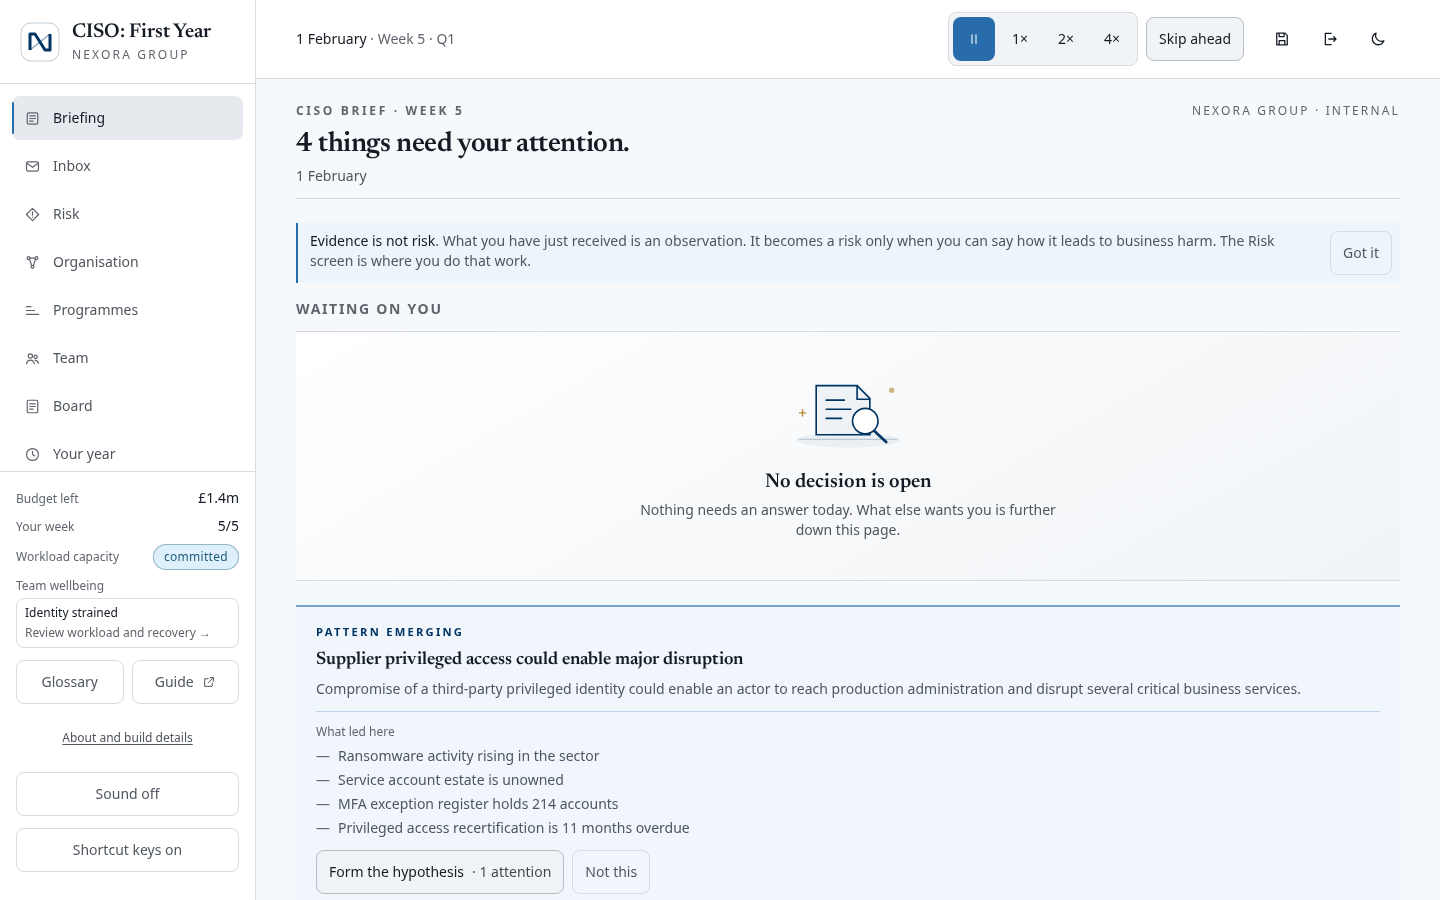
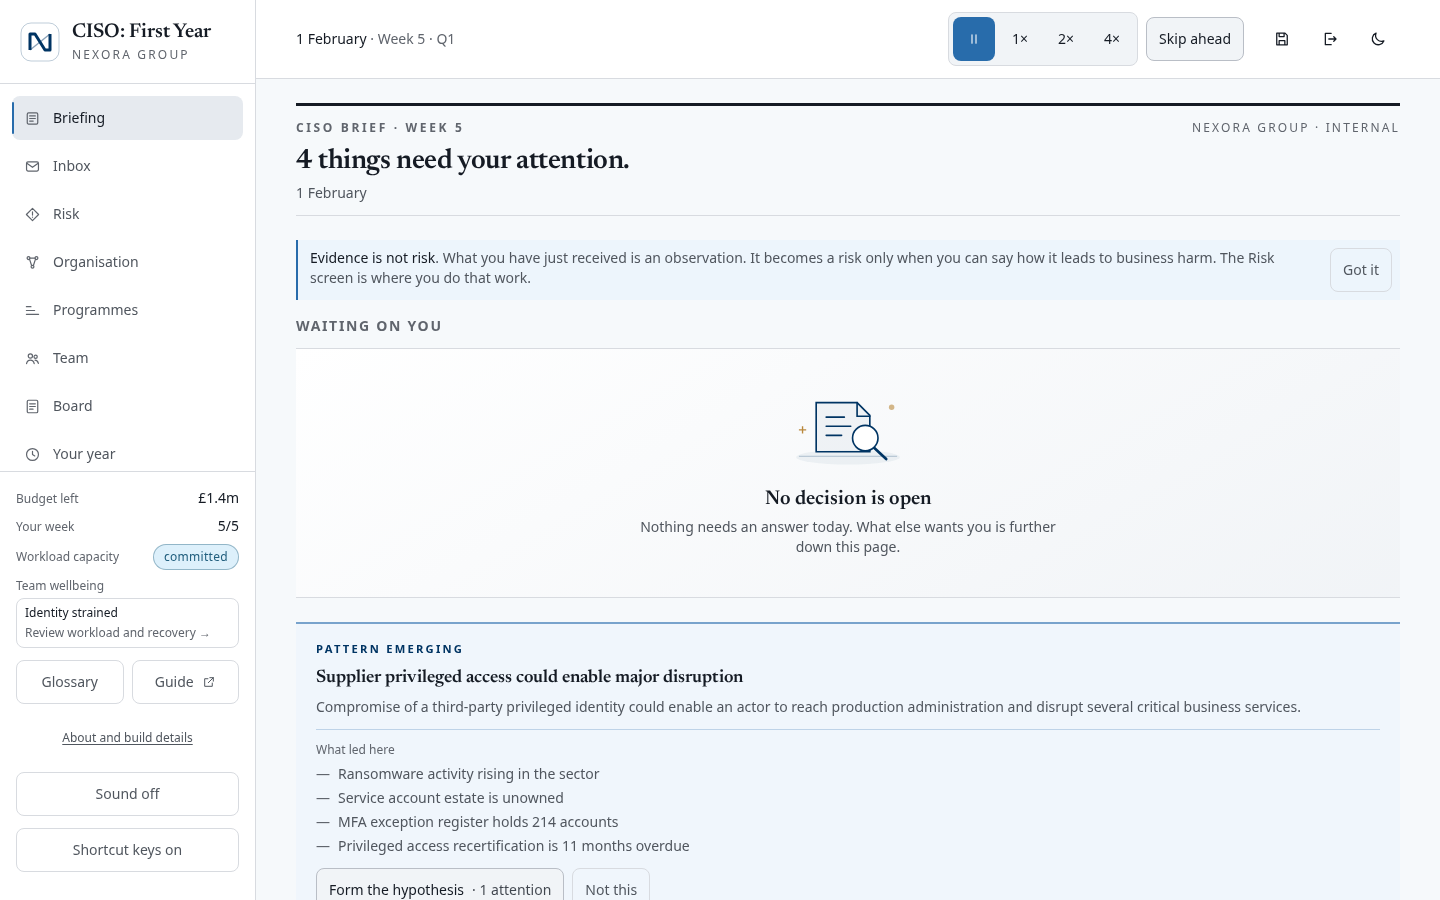
Give the year distinct working surfaces and office atmosphere

diff --git a/tests/ui/visual-story.test.tsx b/tests/ui/visual-story.test.tsx
@@ -1,0 +1,63 @@
+// @vitest-environment jsdom
+import { beforeEach, describe, expect, it } from 'vitest'
+import { fireEvent, render, screen } from '@testing-library/react'
+import { ProgrammeJourney } from '@/components/programmes/ProgrammeJourney'
+import { programmeViews } from '@/store/selectors'
+import { useGameStore } from '@/store/game-store'
+import { InboxScreen } from '@/screens/inbox/InboxScreen'
+import { QuarterOffice } from '@/components/game/QuarterOffice'
+
+beforeEach(async () => { await useGameStore.getState().startNewGame('ui-visual-story', 'ciso') })
+
+describe('visual narrative follows public records', () => {
+  it('separates completed milestones, the next milestone and delivery status', () => {
+    const store = useGameStore.getState()
+    const programme = programmeViews(store.state!, store.index!)[0]!
+    programme.status = 'paused'
+    programme.milestones[0]!.complete = true
+    const view = render(<ProgrammeJourney programme={programme} />)
+    expect(screen.getByText('Delivery paused')).toBeVisible()
+    expect(screen.getAllByText('Completed')).toHaveLength(1)
+    const next = view.container.querySelector('[aria-current="step"]')!
+    expect(next).toHaveTextContent(programme.milestones[1]!.name)
+    expect(next).toHaveTextContent('Next milestone')
+    expect(view.container.textContent).not.toMatch(/due|days left/i)
+    programme.status = 'complete'
+    programme.milestones.forEach((milestone) => { milestone.complete = true })
+    view.rerender(<ProgrammeJourney programme={programme} />)
+    expect(screen.getByText('Delivery complete')).toBeVisible()
+    expect(view.container.querySelector('[aria-current]')).toBeNull()
+    programme.milestones[0]!.complete = false
+    view.rerender(<ProgrammeJourney programme={programme} />)
+    expect(screen.getByText('Not recorded')).toBeVisible()
+    expect(screen.queryByText('Next milestone')).toBeNull()
+  })
+
+  it('keeps known sender names and full roles alongside important portraits', () => {
+    render(<InboxScreen />)
+    const signature = document.querySelector('.sender-signature')!
+    expect(signature).toHaveTextContent('Marianne Okafor')
+    expect(signature).toHaveTextContent('Chief Executive')
+    expect(signature.querySelector('img')).toHaveAttribute('alt', '')
+  })
+
+  it('preserves an unknown sender without inventing a person or role', () => {
+    useGameStore.setState((store) => {
+      const state = structuredClone(store.state!)
+      state.inbox.messages[0]!.from = 'External advisory team'
+      return { state }
+    })
+    render(<InboxScreen />)
+    const signature = document.querySelector('.sender-signature')!
+    expect(signature).toHaveTextContent('External advisory team')
+    expect(signature.querySelector('img')).toBeNull()
+  })
+
+  it('keeps the quarter label when the decorative office image fails', () => {
+    const view = render(<QuarterOffice quarter={4} year={2} />)
+    fireEvent.error(view.container.querySelector('img')!)
+    expect(screen.getByText('Office of the CISO · Year 2 · Q4')).toBeVisible()
+    expect(screen.getByText('The final quarter')).toBeVisible()
+    expect(view.container.querySelector('img')).not.toBeVisible()
+  })
+})

diff --git a/src/index.css b/src/index.css
@@ -611,3 +611,35 @@
 }
 .quarter-paper { border-inline-start-color: var(--brass); }
 @media (min-width: 640px) { .feedback-paper { padding: 1.25rem; } }
+
+/* Each working surface has the rhythm of its real-world counterpart. */
+.morning-brief { border-top: 3px solid var(--ink); padding-top: 0.9rem; }
+.morning-brief h1 { max-width: 38ch; }
+.correspondence-workspace > div:first-child { border-bottom: 1px solid var(--line); padding-bottom: 1rem; }
+.correspondence-workspace ul[aria-label="Messages"] { background: var(--surface-2); }
+.message-reader { border-radius: 0.2rem; }
+.sender-signature { border-block: 1px solid var(--line); padding-block: 1rem; }
+.governance-workspace > div:first-child { border-top: 3px double var(--brass); padding-top: 1rem; }
+.portfolio-workspace > div:first-child { border-inline-start: 3px solid var(--accent); padding-inline-start: 1rem; }
+.response-room { border-inline-start: 4px solid var(--alarm); border-radius: 0.25rem; }
+.programme-journey { padding: 1rem; border: 1px solid var(--line); background: var(--surface-2); border-radius: 0.5rem; }
+.journey-step { display: grid; grid-template-columns: 1.75rem minmax(0,1fr); gap: 0.75rem; position: relative; }
+.journey-step:not(:last-child)::before { content: ''; position: absolute; top: 1.75rem; bottom: 0; left: 0.85rem; border-left: 1px solid var(--line-strong); }
+.journey-marker { display: grid; place-items: center; width: 1.75rem; height: 1.75rem; border: 1px solid var(--line-strong); border-radius: 50%; background: var(--surface); font-size: 0.68rem; color: var(--ink-muted); }
+.journey-step[data-complete="true"] .journey-marker { color: var(--positive); border-color: var(--positive); }
+.journey-step[aria-current="step"] .journey-marker { border: 2px solid var(--accent); color: var(--accent-ink); }
+.journey-step:last-child > div { padding-bottom: 0; }
+
+/* Singapore's office light changes with the campaign quarter, not the score. */
+.office-scene { position: relative; overflow: hidden; background: linear-gradient(120deg,#172d42,#607c89); min-width: 0; }
+.office-atlas { position: absolute; top: 50%; width: 200%; height: auto; max-width: none; transform: translateY(-50%); }
+.office-scene[data-quarter="1"] .office-atlas { filter: saturate(0.75) hue-rotate(8deg); }
+.office-scene[data-quarter="2"] .office-atlas { filter: saturate(0.85) brightness(1.07); }
+.office-scene[data-quarter="3"] .office-atlas { filter: saturate(0.9) sepia(0.12); }
+.office-scene[data-quarter="4"] .office-atlas { filter: saturate(0.7) brightness(0.82); }
+.office-scene.office-closing .office-atlas { filter: none; }
+.quarter-office { display: grid; grid-template-columns: minmax(0,1fr); border: 1px solid var(--line); background: var(--surface-2); overflow: hidden; border-radius: 0.5rem; }
+.quarter-office .office-scene { min-height: 6.5rem; }
+.closing-scene { aspect-ratio: 1.5; width: 100%; border-radius: 0.25rem; }
+@media (min-width: 640px) { .quarter-office { grid-template-columns: minmax(0,1fr) minmax(0,1fr); } }
+@media print { .quarter-office, .closing-scene { display: none !important; } .report-opening { display: block !important; } }

diff --git a/tests/e2e/visual-story.spec.ts b/tests/e2e/visual-story.spec.ts
@@ -1,0 +1,52 @@
+import { expect, test } from '@playwright/test'
+import { beginCampaign, expectNoHorizontalScroll, goTo } from './helpers'
+import { openPreparedCampaign, prepareCampaign } from './prepared'
+
+test('office atmosphere stays out of the title and follows the calendar through the close', async ({ page }) => {
+  const requests: string[] = []
+  page.on('request', (request) => { if (request.url().includes('nexora-office-')) requests.push(request.url()) })
+  await page.goto('/')
+  await expect(page.getByRole('heading', { name: 'CISO: First Year' })).toBeVisible()
+  expect(requests).toHaveLength(0)
+  await beginCampaign(page, 'e2e-office')
+  const office = page.getByRole('complementary', { name: 'Your office through the year' })
+  await office.scrollIntoViewIfNeeded()
+  await expect(office).toContainText('Year 1 · Q1')
+  await expect.poll(() => office.locator('img').evaluate((image: HTMLImageElement) => image.naturalWidth)).toBeGreaterThan(0)
+  await openPreparedCampaign(page, prepareCampaign('e2e-office-q3', 'day:200'))
+  await expect(office).toContainText('Year 1 · Q3')
+  await expect(office.locator('.office-scene')).toHaveAttribute('data-quarter', '3')
+  await openPreparedCampaign(page, prepareCampaign('e2e-office-close', 'year-end'))
+  await expect(page.getByRole('heading', { name: 'How the year is read' })).toBeVisible()
+  const closing = page.locator('.closing-scene img')
+  await closing.scrollIntoViewIfNeeded()
+  await expect.poll(() => closing.evaluate((image: HTMLImageElement) => image.naturalWidth)).toBeGreaterThan(0)
+  expect(new Set(requests).size).toBe(1)
+  await expectNoHorizontalScroll(page)
+})
+
+test('important correspondence gives the named sender a readable portrait and role', async ({ page }) => {
+  await page.goto('/')
+  await beginCampaign(page, 'e2e-correspondence')
+  await goTo(page, 'Inbox')
+  const signature = page.locator('.sender-signature')
+  await signature.scrollIntoViewIfNeeded()
+  await expect(signature).toContainText('Marianne Okafor')
+  await expect(signature).toContainText('Chief Executive')
+  expect((await signature.locator('img').locator('..').boundingBox())!.width).toBeGreaterThanOrEqual(80)
+  await expectNoHorizontalScroll(page)
+})
+
+test('programme journeys keep milestones and intervention controls reachable', async ({ page }) => {
+  await openPreparedCampaign(page, prepareCampaign('e2e-delivery-path', 'board'))
+  await goTo(page, 'Programmes')
+  const journey = page.getByRole('region', { name: /delivery journey/ }).first()
+  await expect(journey).toBeVisible()
+  await expect(journey.getByRole('listitem')).not.toHaveCount(0)
+  const row = page.locator('.programme-row').filter({ has: journey })
+  await row.getByRole('button', { name: 'Pause', exact: true }).click()
+  await expect(journey).toContainText('Delivery paused')
+  await row.getByRole('button', { name: /^Milestones/ }).click()
+  await expect(row.getByRole('button', { name: 'Resume', exact: true })).toBeVisible()
+  await expectNoHorizontalScroll(page)
+})

diff --git a/src/screens/debrief/DebriefScreen.tsx b/src/screens/debrief/DebriefScreen.tsx
@@ -14,6 +14,7 @@ import { yearWord } from '@/game/time'
 import { objectiveStatusLabel } from '@/game/business/objectives'
 import { shortDate } from '@/lib/formatting/labels'
 import { YearTimeline } from '@/components/debrief/YearTimeline'
+import { OfficeScene } from '@/components/game/OfficeScene'
 import { NexoraMark } from '@/components/game/NexoraMark'
 import { IncidentHistory } from '@/components/game/IncidentHistory'
 import { ReviewMoments } from '@/components/debrief/ReviewMoments'
@@ -140,18 +141,23 @@ export function DebriefScreen() {
           <div className="flex items-center gap-3"><NexoraMark /><span className="document-kicker">Office of the CISO</span></div>
           <span className="document-kicker">Year {String(state.year ?? 1).padStart(2, '0')}</span>
         </div>
-        <p className="text-[0.7rem] font-semibold uppercase tracking-[0.3em] text-ink-faint">
-          {index.content.meta.organisation} · Annual review
-          {state.situationId && index.situation.get(state.situationId) && ` · ${index.situation.get(state.situationId)!.name}`}
-        </p>
-        <h1 className="mt-4 max-w-[22ch] font-display text-4xl leading-tight text-balance sm:text-5xl lg:text-6xl">
-          {review.headline}
-        </h1>
-        <p className="mt-4 text-sm uppercase tracking-[0.18em] text-ink-muted">{review.performanceBand}</p>
-        <p className="mt-1 text-xs text-ink-faint">Seed {state.seed}</p>
-        <div className="mt-6 border-t border-line-strong pt-5">
-          <p className="document-kicker">At the close</p>
-          <p className="mt-2 max-w-[60ch] text-base leading-relaxed text-pretty sm:text-lg">{review.businessOutcome}</p>
+        <div className="report-opening grid items-center gap-6 md:grid-cols-[minmax(0,1.25fr)_minmax(0,0.85fr)]">
+          <div className="min-w-0">
+            <p className="text-[0.7rem] font-semibold uppercase tracking-[0.3em] text-ink-faint">
+              {index.content.meta.organisation} · Annual review
+              {state.situationId && index.situation.get(state.situationId) && ` · ${index.situation.get(state.situationId)!.name}`}
+            </p>
+            <h1 className="mt-4 max-w-[22ch] font-display text-4xl leading-tight text-balance sm:text-5xl lg:text-6xl">
+              {review.headline}
+            </h1>
+            <p className="mt-4 text-sm uppercase tracking-[0.18em] text-ink-muted">{review.performanceBand}</p>
+            <p className="mt-1 text-xs text-ink-faint">Seed {state.seed}</p>
+            <div className="mt-6 border-t border-line-strong pt-5">
+              <p className="document-kicker">At the close</p>
+              <p className="mt-2 max-w-[60ch] text-base leading-relaxed text-pretty sm:text-lg">{review.businessOutcome}</p>
+            </div>
+          </div>
+          <OfficeScene closing className="closing-scene" />
         </div>
       </header>
 

diff --git a/src/screens/inbox/InboxScreen.tsx b/src/screens/inbox/InboxScreen.tsx
@@ -77,6 +77,8 @@ export function InboxScreen() {
     (person) => selected.from === person.name || selected.from.startsWith(`${person.name},`),
   )
 
+  const important = selected && (selected.priority === 'urgent' || selected.priority === 'critical' || selected.type === 'executive' || selected.type === 'board')
+
   useEffect(() => {
     if (selected && !selected.read) dispatch({ type: 'markRead', messageId: selected.id })
   }, [selected, dispatch])
@@ -84,7 +86,7 @@ export function InboxScreen() {
   if (!state) return null
 
   return (
-    <div className="space-y-4">
+    <div className="correspondence-workspace space-y-4">
       <div className="flex flex-wrap items-center justify-between gap-3">
         <div><p className="document-kicker">Nexora Group · Correspondence</p><h1 className="mt-2 font-display text-3xl leading-tight">Inbox</h1></div>
         <SegmentedControl
@@ -152,10 +154,12 @@ export function InboxScreen() {
                   <Icon name={MESSAGE_KIND[selected.type].icon} size={16} />{MESSAGE_KIND[selected.type].label}
                 </p>
                 <p className="text-sm text-ink-faint">{formatGameDate(selected.day).label}</p>
-                <h2 className="mt-1 font-display text-xl leading-tight text-balance">{selected.subject}</h2>
-                <div className="mt-3 flex items-center gap-3">
-                  {sender && <PersonPortrait key={sender.id} id={sender.id} name={sender.name} />}
-                  <p className="text-sm text-ink-muted">{selected.from}</p>
+                <h2 className="mt-1 font-display text-2xl leading-tight text-balance">{selected.subject}</h2>
+                <div className="sender-signature mt-4 flex items-center gap-3">
+                  {sender && <PersonPortrait key={sender.id} id={sender.id} name={sender.name} size={important ? 'large' : 'small'} />}
+                  <div className="min-w-0 text-sm">
+                    {sender ? <><p className="font-semibold text-ink">{sender.name}</p><p className="mt-1 text-ink-muted">{sender.role}</p>{selected.from !== sender.name && selected.from !== `${sender.name}, ${sender.role}` && <p className="mt-1 text-xs text-ink-faint">{selected.from}</p>}</> : <p className="text-ink-muted">{selected.from}</p>}
+                  </div>
                 </div>
                 <div className="correspondence-body mt-6 space-y-4 text-pretty">
                   {selected.body.split('\n\n').map((paragraph, position) => (

diff --git a/src/screens/programmes/ProgrammesScreen.tsx b/src/screens/programmes/ProgrammesScreen.tsx
@@ -2,6 +2,7 @@
  * Programme portfolio (plan §28.5). Programmes take months, need people as well
  * as money, and hit blockers that money cannot clear.
  */
+import { ProgrammeJourney } from '@/components/programmes/ProgrammeJourney'
 import { useMemo, useState } from 'react'
 import { Badge, Button, Dialog, Disclosure, Fact, Meter, SectionHeading } from '@/components/ui/primitives'
 import { useCampaignIndex, useGameStore } from '@/store/game-store'
@@ -46,7 +47,7 @@ export function ProgrammesScreen() {
   }
 
   return (
-    <div className="space-y-6">
+    <div className="portfolio-workspace space-y-6">
       <div>
         <p className="document-kicker">Nexora Group · Delivery portfolio</p>
         <h1 className="mt-2 font-display text-3xl leading-tight">Programmes</h1>
@@ -133,6 +134,7 @@ export function ProgrammesScreen() {
                       </div>
                     )}
 
+                    <ProgrammeJourney programme={programme} />
                     <Disclosure summary={`Milestones · ${programme.milestones.filter((milestone) => milestone.complete).length} of ${programme.milestones.length} complete`}>
                       <ul className="mt-1 space-y-1 text-sm">
                         {programme.milestones.map((milestone) => (
@@ -140,7 +142,7 @@ export function ProgrammesScreen() {
                             <span aria-hidden="true" className={milestone.complete ? 'text-positive' : 'text-ink-faint'}>
                               {milestone.complete ? '✓' : '○'}
                             </span>
-                            <span className={milestone.complete ? '' : 'text-ink-muted'}>{milestone.name}</span>
+                            <span><span className="font-medium">{milestone.name}</span><span className="mt-1 block text-ink-muted">{milestone.description}</span></span>
                           </li>
                         ))}
                       </ul>

diff --git a/src/components/programmes/ProgrammeJourney.tsx b/src/components/programmes/ProgrammeJourney.tsx
@@ -1,0 +1,21 @@
+import type { ProgrammeView } from '@/store/selectors'
+
+/** A delivery sequence, not a forecast: completion comes from the public record. */
+export function ProgrammeJourney({ programme }: { programme: ProgrammeView }) {
+  const next = programme.status === 'complete' ? -1 : programme.milestones.findIndex((milestone) => !milestone.complete)
+  return <section aria-label={`${programme.shortName} delivery journey`} className="programme-journey">
+    <div className="flex flex-wrap items-baseline justify-between gap-2">
+      <h4 className="document-kicker">Delivery path</h4>
+      <p className="text-xs text-ink-muted">{programme.status === 'complete' ? 'Delivery complete' : programme.status === 'paused' ? 'Delivery paused' : programme.blockers.length > 0 ? 'Delivery blocked' : 'Delivery in progress'}</p>
+    </div>
+    <ol className="mt-3 space-y-0">
+      {programme.milestones.map((milestone, position) => <li key={milestone.id} aria-current={position === next && programme.status !== 'complete' ? 'step' : undefined} className="journey-step" data-complete={milestone.complete}>
+        <span className="journey-marker" aria-hidden="true">{milestone.complete ? '✓' : String(position + 1).padStart(2, '0')}</span>
+        <div className="min-w-0 pb-4">
+          <p className="text-sm font-medium leading-snug">{milestone.name}</p>
+          <p className="mt-1 text-xs text-ink-muted">{milestone.complete ? 'Completed' : programme.status === 'complete' ? 'Not recorded' : position === next ? 'Next milestone' : 'Ahead'}</p>
+        </div>
+      </li>)}
+    </ol>
+  </section>
+}

diff --git a/src/screens/home/HomeScreen.tsx b/src/screens/home/HomeScreen.tsx
@@ -6,6 +6,7 @@ import { Badge, Button, Card, CardBody, EmptyState, Meter, SectionHeading } from
 import { DecisionList } from '@/components/decisions/DecisionList'
 import { Collisions } from '@/components/game/Collisions'
 import { CampaignFeedback } from '@/components/game/CampaignFeedback'
+import { QuarterOffice } from '@/components/game/QuarterOffice'
 import { CameBack } from '@/components/game/CameBack'
 import { Terms } from '@/components/game/Terms'
 import { PatternNotice } from '@/components/risk/PatternNotice'
@@ -59,7 +60,7 @@ export function HomeScreen() {
     <div className="space-y-6">
       {/* A brief has a masthead. It costs nothing and it tells the player what
           kind of document they are reading. */}
-      <header className="border-b border-line pb-3">
+      <header className="morning-brief border-b border-line pb-3">
         <div className="flex flex-wrap items-baseline justify-between gap-x-4 gap-y-1">
           <p className="text-xs font-semibold uppercase tracking-[0.22em] text-ink-faint">
             CISO brief · {view.yearLabel ? `${view.yearLabel} · ` : ''}{view.weekLabel}
@@ -141,6 +142,8 @@ export function HomeScreen() {
 
       {/* The moment something clicks should find the player, not wait on a tab. */}
       <PatternNotice />
+
+      <QuarterOffice quarter={view.quarter} year={state.year ?? 1} />
 
       {/* The standing picture. One strip, four readings, no borders: these are
           the state of the organisation, not four things to do. */}

diff --git a/scripts/size-budget.ts b/scripts/size-budget.ts
@@ -179,6 +179,15 @@ async function main(): Promise<void> {
     if (visit > art.visitLimit) failures.push(`${art.name} visit including prefetch exceeds its ${art.visitLimit} KiB budget`)
   }
 
+  const office = entries.find((entry) => entry.startsWith('nexora-office-') && entry.endsWith('.webp'))
+  if (!office) failures.push('missing deferred office artwork')
+  else {
+    const size = (await readFile(join(dir, office))).byteLength / 1024
+    console.log(`\n  Office atlas (after play begins): ${size.toFixed(1)} KiB / 160 KiB`)
+    if (size > 160) failures.push('office atlas exceeds its 160 KiB budget')
+    if (html.includes(office)) failures.push('office atlas must not be fetched by the title screen')
+  }
+
   if (failures.length > 0) {
     console.error(`\n${failures.length} budget failure(s):`)
     for (const failure of failures) console.error(`  ${failure}`)

diff --git a/tests/e2e/print.spec.ts b/tests/e2e/print.spec.ts
@@ -23,6 +23,9 @@ test('the annual review prints as a document', async ({ page, browserName }, tes
   for (const nav of await page.getByRole('navigation', { name: 'Primary' }).all()) await expect(nav).toBeHidden()
   await expect(page.getByRole('button', { name: 'Print or save as PDF' })).toBeHidden()
   await expect(page.getByRole('heading', { level: 1 })).toBeVisible()
+  await expect(page.locator('.closing-scene')).toBeHidden()
+  const paperWidth = await page.locator('.report-opening').evaluate((element) => ({ content: element.firstElementChild!.getBoundingClientRect().width, available: element.getBoundingClientRect().width }))
+  expect(paperWidth.content).toBeGreaterThanOrEqual(paperWidth.available - 2)
 
   // Black on white even from the dark theme.
   const colours = await page.evaluate(() => {

diff --git a/tests/e2e/guide-shots.spec.ts b/tests/e2e/guide-shots.spec.ts
@@ -182,4 +182,16 @@ test.describe('player guide', () => {
     await shot(page, '08b-quarter-recap')
   })
 
+  test('the office through the year and an active delivery path', async ({ page }) => {
+    await openPreparedCampaign(page, prepareCampaign('e2e-delivery-path', 'board'))
+    await dismissNote(page)
+    const office = page.getByRole('complementary', { name: 'Your office through the year' })
+    await office.scrollIntoViewIfNeeded()
+    await office.locator('img').evaluate((image: HTMLImageElement) => image.decode())
+    await shot(page, '02c-office')
+    await goTo(page, 'Programmes')
+    await page.getByRole('region', { name: /delivery journey/ }).first().scrollIntoViewIfNeeded()
+    await shot(page, '06d-delivery')
+  })
+
 })

diff --git a/src/components/game/QuarterOffice.tsx b/src/components/game/QuarterOffice.tsx
@@ -1,0 +1,15 @@
+import { OfficeScene } from './OfficeScene'
+
+const QUARTERS = ['The year opens', 'The second quarter', 'The third quarter', 'The final quarter'] as const
+
+export function QuarterOffice({ quarter, year }: { quarter: number; year: number }) {
+  const at = Math.min(4, Math.max(1, quarter))
+  return <aside className="quarter-office" aria-label="Your office through the year">
+    <OfficeScene quarter={at} />
+    <div className="min-w-0 px-4 py-3">
+      <p className="document-kicker">Office of the CISO · Year {year} · Q{at}</p>
+      <p className="mt-1 font-display text-xl">{QUARTERS[at - 1]}</p>
+      <p className="mt-1 text-xs text-ink-muted">Your year at Nexora</p>
+    </div>
+  </aside>
+}
